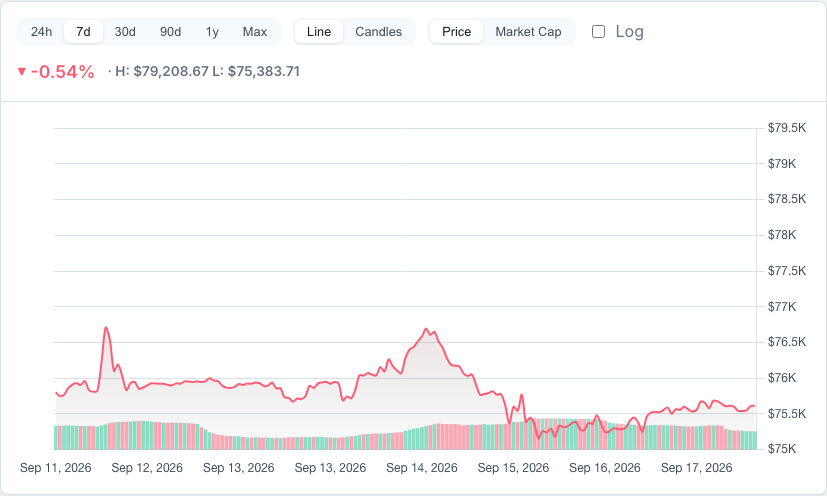
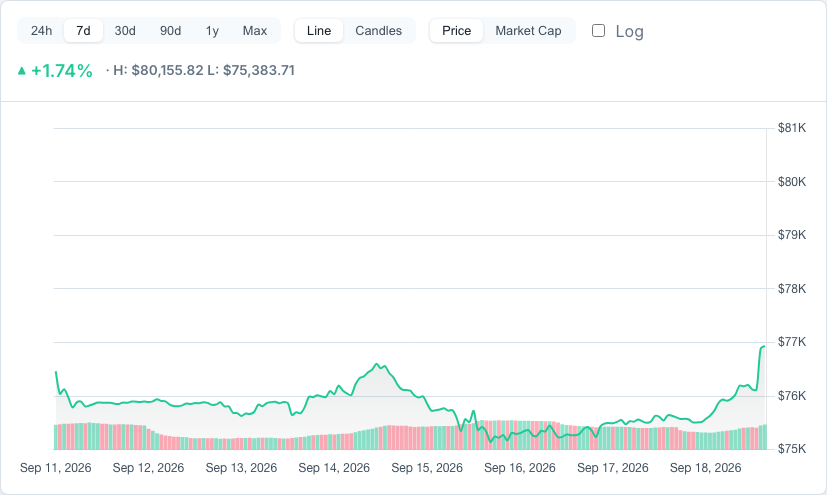
feat: server-side pre-rendered Markets table (top 100) for first paint and crawlers

diff --git a/server/ssr.js b/server/ssr.js
@@ -1,0 +1,43 @@
+const escapeHtml = (value) => String(value).replace(/[&<>"']/g, (char) => ({
+  '&': '&amp;', '<': '&lt;', '>': '&gt;', '"': '&quot;', "'": '&#39;'
+}[char]));
+
+const compactUsd = new Intl.NumberFormat('en-US', {
+  style: 'currency',
+  currency: 'USD',
+  notation: 'compact',
+  maximumFractionDigits: 2
+});
+
+function formatPrice(value) {
+  const price = Number(value);
+  if (!Number.isFinite(price)) return '—';
+  return new Intl.NumberFormat('en-US', {
+    style: 'currency',
+    currency: 'USD',
+    maximumFractionDigits: price >= 1 ? 2 : 6
+  }).format(price);
+}
+
+function formatCompact(value) {
+  const number = Number(value);
+  return Number.isFinite(number) ? compactUsd.format(number) : '—';
+}
+
+export function renderMarketsTable(rows, { limit = 100 } = {}) {
+  const body = (Array.isArray(rows) ? rows : []).slice(0, Math.max(0, limit)).map((row, index) => {
+    const id = escapeHtml(row?.id || '');
+    const href = `/coin/${encodeURIComponent(String(row?.id || ''))}`;
+    const image = escapeHtml(row?.image || '');
+    const name = escapeHtml(row?.name || row?.id || '');
+    const symbol = escapeHtml(String(row?.symbol || '').toUpperCase());
+    const rank = escapeHtml(row?.market_cap_rank ?? index + 1);
+    const change = Number(row?.price_change_percentage_24h);
+    const validChange = Number.isFinite(change);
+    const changeClass = validChange && change >= 0 ? 'is-up' : 'is-down';
+    const changeText = validChange ? `${change >= 0 ? '+' : ''}${change.toFixed(2)}%` : '—';
+    return `<tr data-coin-id="${id}"><td>${rank}</td><td><a class="asset-cell" href="${escapeHtml(href)}"><img class="asset-logo" src="${image}" alt="" loading="lazy" referrerpolicy="no-referrer" width="24" height="24"><span class="asset-copy"><span class="asset-name">${name}</span><span class="asset-symbol">${symbol}</span></span></a></td><td>${formatPrice(row?.current_price)}</td><td><span class="change-badge ${changeClass}">${changeText}</span></td><td>${formatCompact(row?.total_volume)}</td><td>${formatCompact(row?.market_cap)}</td></tr>`;
+  }).join('');
+
+  return `<div class="table-frame ssr"><table class="data-table"><thead><tr><th class="col-num">#</th><th class="col-coin">Coin</th><th class="col-price">Price</th><th class="col-change24h">24h %</th><th class="col-volume">24h Volume</th><th class="col-marketCap">Market Cap</th></tr></thead><tbody>${body}</tbody></table></div>`;
+}

diff --git a/server/app.js b/server/app.js
@@ -8,7 +8,7 @@ import { getUniverse } from './universe.js';
 import { createCompressionCache, send, weakEtag, etagMatches } from './compress.js';
 import { createRateLimiter } from './ratelimit.js';
 import { upstreamStatus } from './upstream.js';
-import { decorateCoinPage, decorateExchangePage, getExchangeList } from './seo.js';
+import { decorateCoinPage, decorateExchangePage, decorateHomePage, getExchangeList } from './seo.js';
 import { createRequestCounters, renderMetrics } from './metrics.js';
 
 const __dirname = path.dirname(fileURLToPath(import.meta.url));
@@ -279,7 +279,8 @@ export async function createApp({ cache, live, popular, publicDir, options = {} 
         ? decodeURIComponent(pathname.split('/')[2] || '') : null;
       const exchangePageId = targetFile === '/exchange.html' && pathname.startsWith('/exchange/')
         ? decodeURIComponent(pathname.split('/')[2] || '') : null;
-      const dynamicHead = coinPageId || exchangePageId;
+      const homePage = targetFile === '/index.html' && pathname === '/' && req.method === 'GET';
+      const dynamicHead = coinPageId || exchangePageId || homePage;
       const etag = `W/"${stat.size}-${mtimeHex}${dynamicHead ? '-' + Math.floor(Date.now() / 60000) : ''}"`;
 
       if (req.headers['if-none-match'] === etag) {
@@ -292,7 +293,9 @@ export async function createApp({ cache, live, popular, publicDir, options = {} 
       let countCoinView = false;
       if (req.method !== 'HEAD') {
         content = await fs.readFile(filePath);
-        if (coinPageId && /^[a-z0-9-]{1,100}$/.test(coinPageId)) {
+        if (homePage) {
+          content = await decorateHomePage(content.toString('utf8'), { cache, publicUrl });
+        } else if (coinPageId && /^[a-z0-9-]{1,100}$/.test(coinPageId)) {
           const purpose = String(req.headers['x-purpose'] || '').toLowerCase();
           const secPurpose = String(req.headers['sec-purpose'] || '').toLowerCase();
           const userAgent = String(req.headers['user-agent'] || '');

diff --git a/server/seo.js b/server/seo.js
@@ -2,6 +2,7 @@
 // filled from the universe snapshot so crawlers and link previews see real data without running JS.
 import { getUniverse } from './universe.js';
 import { fetchUpstream, COINGECKO_BASE, cacheKey } from './upstream.js';
+import { renderMarketsTable } from './ssr.js';
 
 const escapeHtml = (s) => String(s).replace(/[&<>"']/g, (c) => ({ '&': '&amp;', '<': '&lt;', '>': '&gt;', '"': '&quot;', "'": '&#39;' }[c]));
 
@@ -47,6 +48,21 @@ function applyHead(html, { title, description, canonical, image }) {
     .replace(/<title>[^<]*<\/title>/, `<title>${escapeHtml(title)}</title>`)
     .replace(/<meta name="description" content="[^"]*">/, `<meta name="description" content="${escapeHtml(description)}">`)
     .replace('</head>', `${headTags({ title, description, canonical, image })}\n</head>`);
+}
+
+/**
+ * Home page: pre-render the markets table and always add a canonical link. Never throws.
+ */
+export async function decorateHomePage(html, { cache, publicUrl, timeoutMs = 1500 }) {
+  const canonical = `${String(publicUrl || '').replace(/\/$/, '')}/`;
+  let output = String(html).replace('</head>', `  <link rel="canonical" href="${escapeHtml(canonical)}">\n</head>`);
+  try {
+    const uni = await withTimeout(getUniverse({ cache }), timeoutMs);
+    if (Array.isArray(uni?.rows)) {
+      output = output.replace('<div id="marketsTable"></div>', `<div id="marketsTable" data-ssr="1">${renderMarketsTable(uni.rows)}</div>`);
+    }
+  } catch {}
+  return output;
 }
 
 /**

diff --git a/public/js/pages/markets.js b/public/js/pages/markets.js
@@ -291,7 +291,8 @@ function renderHighlightRow(id, name, symbol, image, priceUsd, change24h) {
 let loadSeq = 0;
 async function load() {
   const seq = ++loadSeq;
-  marketsTable.innerHTML = `<div class="table-frame"><table class="data-table"><thead><tr><th></th><th>#</th><th>${t('js.coin')}</th><th>${t('js.price')}</th><th>1h %</th><th>${t('js.24h')}</th><th>7d %</th><th>${t('js.24h_volume')}</th><th>${t('js.market_cap')}</th><th>${t('js.last_7_days')}</th></tr></thead><tbody>${skeletonRows(10, 10)}</tbody></table></div>`;
+  // Keep the server-rendered table (data-ssr) visible until real data arrives; skeleton only on later reloads.
+  if (!marketsTable.dataset.ssr || marketsTable.dataset.ssrConsumed) marketsTable.innerHTML = `<div class="table-frame"><table class="data-table"><thead><tr><th></th><th>#</th><th>${t('js.coin')}</th><th>${t('js.price')}</th><th>1h %</th><th>${t('js.24h')}</th><th>7d %</th><th>${t('js.24h_volume')}</th><th>${t('js.market_cap')}</th><th>${t('js.last_7_days')}</th></tr></thead><tbody>${skeletonRows(10, 10)}</tbody></table></div>`;
   marketsPagination.innerHTML = '';
   updatedAt.textContent = t('markets.updating');
 
@@ -435,6 +436,7 @@ function renderTable() {
   const mandatoryCols = ['rank', 'coin', 'price', 'change24h'];
   const cols = canonicalCols.filter(c => mandatoryCols.includes(c) || columnsState.includes(c));
 
+  marketsTable.dataset.ssrConsumed = '1';
   renderCoinTable(marketsTable, filtered, {
     fx,
     expandable: true,

diff --git a/test/ssr.test.js b/test/ssr.test.js
@@ -1,0 +1,25 @@
+import { test } from 'node:test';
+import assert from 'node:assert/strict';
+import { renderMarketsTable } from '../server/ssr.js';
+
+const rows = [
+  { id: 'bitcoin', symbol: 'btc', name: 'Bit<b>coin', image: 'https://img/btc.png', current_price: 76437, market_cap_rank: 1, total_volume: 24.07e9, market_cap: 1.51e12, price_change_percentage_24h: 1.234 },
+  { id: 'ethereum', symbol: 'eth', name: 'Ethereum', image: 'https://img/eth.png', current_price: 1923.5, market_cap_rank: 2, total_volume: 12e9, market_cap: 232e9, price_change_percentage_24h: -2.345 },
+  { id: 'solana', symbol: 'sol', name: 'Solana', image: 'https://img/sol.png', current_price: 145, market_cap_rank: 3, total_volume: 4e9, market_cap: 68e9, price_change_percentage_24h: 0.5 }
+];
+
+test('renders escaped market rows with formatted values and badges', () => {
+  const html = renderMarketsTable(rows);
+  assert.equal((html.match(/<tr data-coin-id=/g) || []).length, 3);
+  assert.match(html, /Bit&lt;b&gt;coin/);
+  assert.match(html, /\$76,437\.00/);
+  assert.match(html, /\$24\.07B/);
+  assert.match(html, /change-badge is-up">\+1\.23%/);
+  assert.match(html, /change-badge is-down">-2\.35%/);
+});
+
+test('respects the row limit', () => {
+  const html = renderMarketsTable(rows, { limit: 2 });
+  assert.equal((html.match(/<tr data-coin-id=/g) || []).length, 2);
+  assert.doesNotMatch(html, /data-coin-id="solana"/);
+});

diff --git a/test/app.test.js b/test/app.test.js
@@ -90,6 +90,8 @@ test('serves the home page with security headers', async () => {
   assert.equal(res.status, 200);
   assert.match(res.headers['content-type'], /^text\/html/);
   assert.match(res.body, /<title>/);
+  assert.match(res.body, /<div id="marketsTable" data-ssr="1">[\s\S]*\/coin\/bitcoin/);
+  assert.match(res.body, /<link rel="canonical" href="https:\/\/example\.test\/">/);
   assert.match(res.headers['content-security-policy'], /frame-ancestors 'none'/);
 });
 

diff --git a/README.md b/README.md
@@ -6,7 +6,7 @@ Cryptolive is a self-hosted, zero-dependency cryptocurrency market data service 
 
 - **Overview**: Market Overview dashboard featuring a Fear & Greed gauge + 30-day history, market dominance doughnut, top sectors bar chart, market breadth, and a watchlist snapshot.
 - **Markets**: Global stats bar (total market cap, 24h volume, BTC/ETH dominance, Fear & Greed Index), trending and top gainers/losers highlight cards, sortable top-N coin table with 7-day sparklines, quick filter tabs (All, Watchlist, Gainers, Losers), per-page selector (50/100/250), and live price update flashes; expandable 7-day chart per row; tick up to 4 coins to jump into Compare; CSV export of the current view (also on Watchlist and Portfolio transactions).
-- **Coin Detail**: Interactive line (with a volume histogram) and candlestick charts with timeframe ranges (24h to Max) and logarithmic scale toggle, price vs. market cap toggle, key stats (circulating/total/max supply, volume/market cap), ATH/ATL metrics with percentage change and dates, 24h low/high range bar, mini-converter, multi-timeframe price performance, historical data table + CSV export, exchange tickers with trust scores and trade links, coin description, official links, a "Similar coins" card (rank neighbours with live prices) and a "Set alert" button. Coin pages are served with per-coin `<title>`, description, canonical and Open Graph tags filled server-side from the universe snapshot, and the sitemap lists every coin in the universe.
+- **Coin Detail**: Interactive line (with a volume histogram) and candlestick charts with timeframe ranges (24h to Max) and logarithmic scale toggle, price vs. market cap toggle, key stats (circulating/total/max supply, volume/market cap), ATH/ATL metrics with percentage change and dates, 24h low/high range bar, mini-converter, multi-timeframe price performance, historical data table + CSV export, exchange tickers with trust scores and trade links, coin description, official links, a "Similar coins" card (rank neighbours with live prices) and a "Set alert" button. Coin pages are served with per-coin `<title>`, description, canonical and Open Graph tags filled server-side from the universe snapshot, and the sitemap lists every coin in the universe. The Markets page is pre-rendered server-side (top 100 rows from the universe) so crawlers and first paint see real data; the client replaces it once live data loads.
 - **Compare**: Up to 4 coins side-by-side comparison with a normalized performance chart.
 - **Alerts**: Price alerts (above/below rules checked against the live stream + 60 s polling fallback) triggering toasts and browser Notifications; triggered alerts can be re-armed; stored in `localStorage`; besides above/below price targets, alerts can fire on 24h percent change (≥ +X% / ≤ −X%); optional repeating alerts re-arm themselves after firing (1 h cooldown).
 - **Watchlist**: Track favorite coins locally via `localStorage` with JSON import and export capability.
